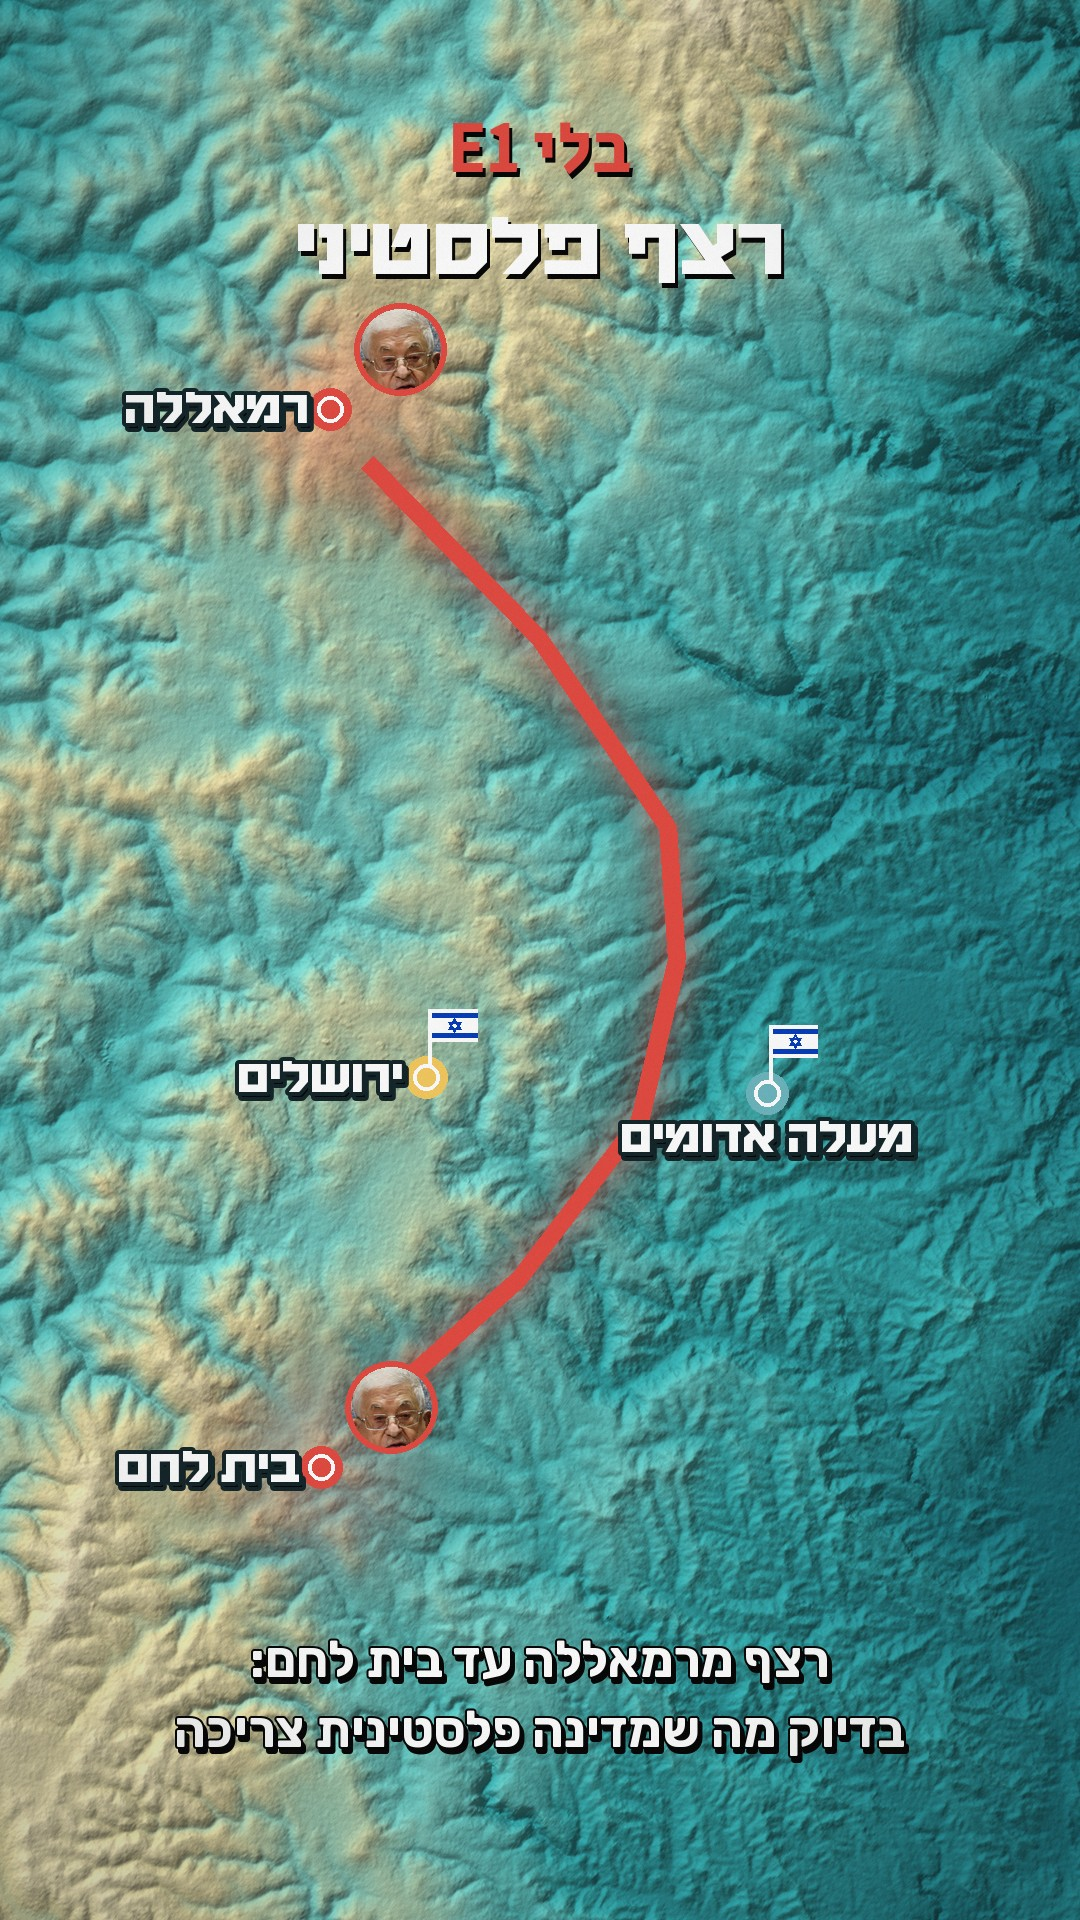
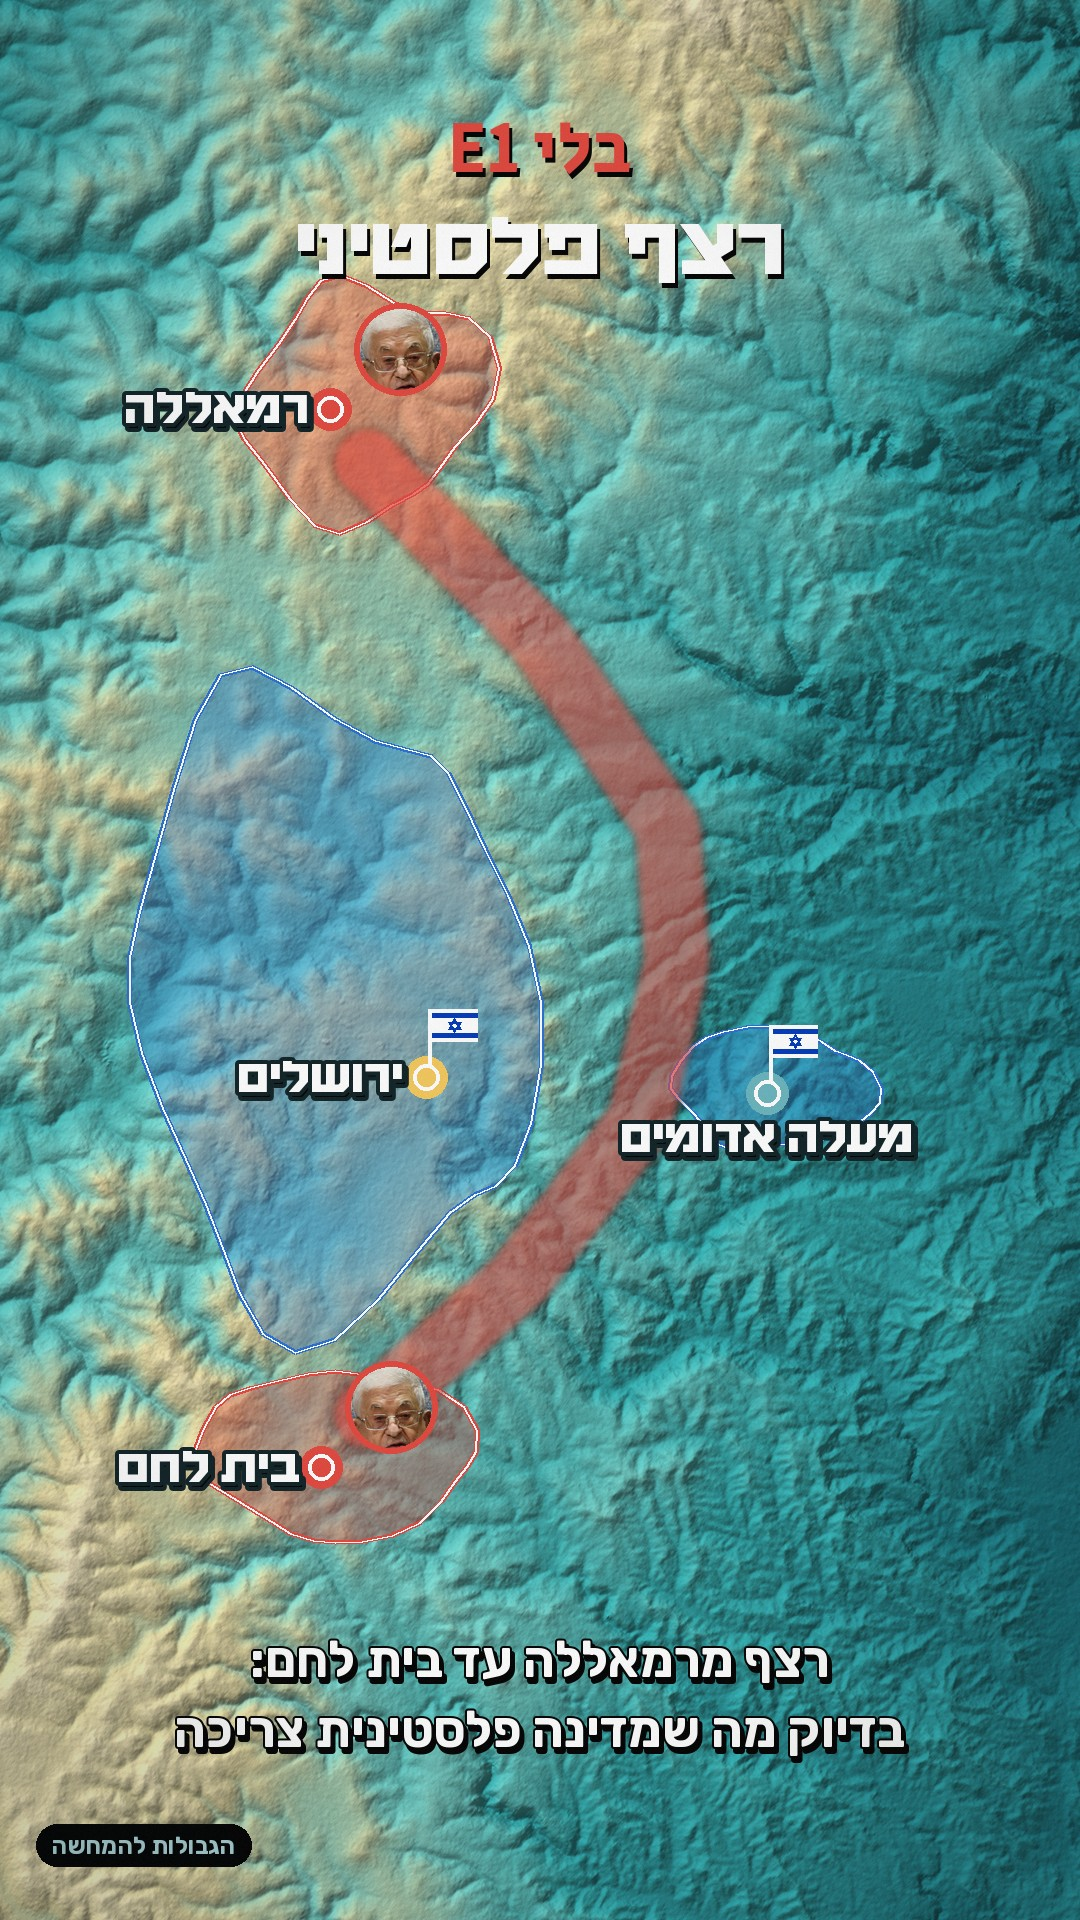
E1 explainer: territorial areas + continuity bands
Claude-Session: https://claude.ai/code/session_01RS3QK6pAd3YhyAuXZSJjH1

Changed region(s): [[0.0917, 0.1562, 0.825, 0.8125], [0.0306, 0.9375, 0.2444, 1.0], [0.2444, 0.125, 0.3667, 0.1875]]

diff --git a/content-kit/hatzionut-hadatit/2026-11-reel-e1-explainer/sample4.py b/content-kit/hatzionut-hadatit/2026-11-reel-e1-explainer/sample4.py
@@ -32,6 +32,22 @@ def abbas_badge(d, x, y, r=46):
 def pa_zone(im, v, lat, lon, rad_px):
     x, y = v.xy(lat, lon); lay = Image.new('RGBA', (W, H)); ld = ImageDraw.Draw(lay)
     ld.ellipse((x - rad_px, y - rad_px, x + rad_px, y + rad_px), fill=RED + (70,)); lay = lay.filter(ImageFilter.GaussianBlur(rad_px * .35)); im.alpha_composite(lay)
+import random, math as _m
+def blob(lat, lon, ry, rx, seed, n=28):
+    rnd = random.Random(seed); ph = [rnd.uniform(0, 6.28) for _ in range(3)]
+    return [(lat + ry * (1 + .14 * _m.sin(3 * t + ph[0]) + .08 * _m.sin(5 * t + ph[1])) * _m.sin(t), lon + rx * (1 + .14 * _m.cos(2 * t + ph[2]) + .08 * _m.sin(4 * t + ph[0])) * _m.cos(t)) for t in [k * 6.283 / n for k in range(n)]]
+AREAS = {'רמאללה': blob(31.905, 35.212, .022, .026, 1), 'בית לחם': blob(31.708, 35.205, .016, .028, 2),
+         'ירושלים': blob(31.792, 35.205, .058, .046, 3, 36),
+         'מעלה אדומים': blob(31.776, 35.302, .011, .024, 4)}
+def area(im, v, pts, col, a=95, w=5):
+    lay = Image.new('RGBA', (W, H)); ld = ImageDraw.Draw(lay); P = [v.xy(*p) for p in pts]
+    ld.polygon(P, fill=col + (a,)); im.alpha_composite(lay); d = ImageDraw.Draw(im); d.line(P + [P[0]], fill=col + (255,), width=w, joint='curve'); d.line(P + [P[0]], fill=(255, 255, 255, 140), width=2)
+def band(im, v, pts, col, w, a=150):
+    lay = Image.new('RGBA', (W, H)); ld = ImageDraw.Draw(lay); P = [v.xy(*p) for p in pts]
+    ld.line(P, fill=col + (a,), width=w, joint='curve')
+    for x, y in (P[0], P[-1]): ld.ellipse((x - w / 2, y - w / 2, x + w / 2, y + w / 2), fill=col + (a,))
+    lay = lay.filter(ImageFilter.GaussianBlur(4)); im.alpha_composite(lay)
+BLUE = (40, 110, 210)
 OUT = []
 # 3 vivid
 v = View(31.787, 35.262, 1.75); im = mapbase(v); d = ImageDraw.Draw(im)
@@ -48,27 +64,30 @@ OUT.append(('03', finish2(im)))
 # 4 vivid: corridor with PA
 def mapPA(v, cut):
     im = mapbase(v, .05)
-    for n in ('רמאללה', 'בית לחם'): pa_zone(im, v, *PL[n], 120)
-    if cut: path(im, v, CORR[:3], RED + (255,), 18); path(im, v, CORR[4:], RED + (255,), 18)
-    else: path(im, v, CORR, RED + (255,), 18)
+    for n in ('רמאללה', 'בית לחם'): area(im, v, AREAS[n], RED)
+    area(im, v, AREAS['ירושלים'], BLUE, 80); area(im, v, AREAS['מעלה אדומים'], BLUE, 80)
+    if cut:
+        band(im, v, CORR[:3], RED, 70); band(im, v, CORR[4:], RED, 70)
+        band(im, v, [(31.788, 35.235), (31.798, 35.27), (31.782, 35.295)], BLUE, 120, 215)
+    else: band(im, v, CORR, RED, 70)
     d = ImageDraw.Draw(im); return im, d
 v = View(31.80, 35.25, .78)
-im, d = mapPA(v, False); P = [v.xy(*p) for p in CORR]; (xa, ya), (xb, yb) = P[-2], P[-1]; import math; a = math.atan2(yb - ya, xb - xa); L = 54
-d.polygon([(xb + 12 * math.cos(a), yb + 12 * math.sin(a)), (xb - L * math.cos(a - .5), yb - L * math.sin(a - .5)), (xb - L * math.cos(a + .5), yb - L * math.sin(a + .5))], fill=RED)
+im, d = mapPA(v, False)
 def places(d, v):
     for n, c, s_ in [('רמאללה', RED, 'l'), ('בית לחם', RED, 'l'), ('ירושלים', GOLD, 'l'), ('מעלה אדומים', LT, 'b')]:
         x, y = pin(d, v, *PL[n], c, 13); label(d, v, *PL[n], n, s_, 46, dot=False)
         if c == RED: abbas_badge(d, x, y)
         else: flag(d, x + 4, y - 12, .8)
 places(d, v); headline(d, [('בלי E1', RED), ('רצף פלסטיני', WHITE)], 150, 84)
-lower(d, 'רצף מרמאללה עד בית לחם:\nבדיוק מה שמדינה פלסטינית צריכה'); OUT.append(('04', finish2(im)))
+lower(d, 'רצף מרמאללה עד בית לחם:\nבדיוק מה שמדינה פלסטינית צריכה'); corner_tag(d, 'הגבולות להמחשה'); OUT.append(('04', finish2(im)))
 # 5 vivid
 im, d = mapPA(v, True)
 lay = Image.new('RGBA', (W, H)); ld = ImageDraw.Draw(lay); ld.polygon([v.xy(*p) for p in E1], fill=GOLD + (200,)); lay = lay.filter(ImageFilter.GaussianBlur(40)); im.alpha_composite(lay); poly(im, v, E1, GOLD + (240,), WHITE, 6); d = ImageDraw.Draw(im)
 cx = sum(v.xy(*p)[0] for p in E1) / 5; cy = sum(v.xy(*p)[1] for p in E1) / 5
-d.rounded_rectangle((cx - 160, cy - 50, cx + 160, cy + 50), 50, fill=GOLD, outline=WHITE, width=5); T(d, (cx, cy), 'נחסם', F(KB, 66), fill=NIGHT, sh=False)
+cx, cy = cx + 250, cy - 110
+d.rounded_rectangle((cx - 140, cy - 48, cx + 140, cy + 48), 48, fill=GOLD, outline=WHITE, width=5); T(d, (cx, cy), 'נחסם', F(KB, 64), fill=NIGHT, sh=False)
 places(d, v); headline(d, [('עם E1', GOLD), ('הרצף נחתך', WHITE)], 150, 84, hl=1)
-lower(d, 'לכן קוראים לזה "בולם":\nזה בולם מדינה פלסטינית'); OUT.append(('05', finish2(im)))
+lower(d, 'רצף ישראלי מירושלים למעלה אדומים\nחוצה את הרצף הפלסטיני'); corner_tag(d, 'הגבולות להמחשה'); OUT.append(('05', finish2(im)))
 # 6 vivid: houses
 v = View(31.80, 35.28, 1.6); im = mapbase(v, .35); d = ImageDraw.Draw(im)
 s_ = Image.open(HERE + '/src/smotrich-cut.png').convert('RGBA'); s_ = s_.resize((int(s_.width * 1150 / s_.height), 1150), Image.LANCZOS)
